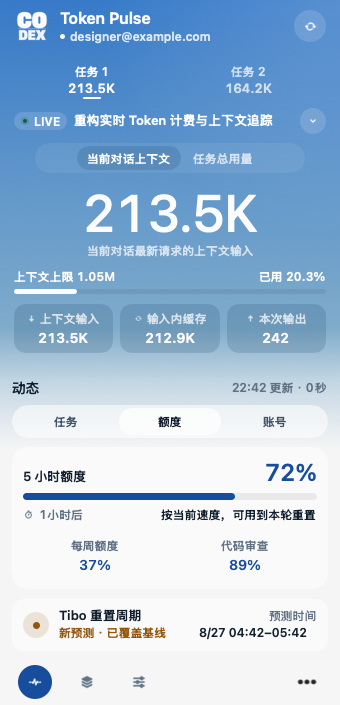
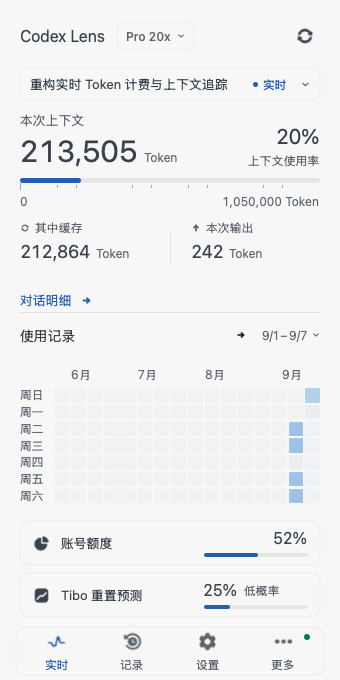
docs: refresh README and app screenshots

diff --git a/README.md b/README.md
@@ -1,15 +1,16 @@
 <p align="center">
-  <img src="Design/AppIconMaster.png" width="112" alt="Codex Lens">
+  <img src="docs/images/app-icon.png" width="96" alt="Codex Lens 图标">
 </p>
 
 <h1 align="center">Codex Lens</h1>
 
+<p align="center">Codex 用量统计 · macOS 菜单栏应用</p>
+
 <p align="center">
-  <a href="#下载">下载</a> ·
-  <a href="#数据">数据</a> ·
-  <a href="#账号">账号</a> ·
-  <a href="#开发">开发</a> ·
-  <a href="#文档">文档</a>
+  <a href="https://github.com/Lincb522/CodexLens/releases/download/v2.5.2/Codex-Lens-macOS.dmg"><strong>下载 macOS 版</strong></a> ·
+  <a href="CHANGELOG.md">更新日志</a> ·
+  <a href="#开始使用">开始使用</a> ·
+  <a href="#本地构建">本地构建</a>
 </p>
 
 <p align="center">
@@ -17,82 +18,80 @@
   <img alt="Swift 5.10" src="https://img.shields.io/badge/Swift-5.10-F05138?style=flat-square&amp;logo=swift&amp;logoColor=white">
   <img alt="SwiftUI + AppKit" src="https://img.shields.io/badge/UI-SwiftUI%20%2B%20AppKit-0A84FF?style=flat-square&amp;logo=apple&amp;logoColor=white">
   <img alt="XcodeGen" src="https://img.shields.io/badge/Build-XcodeGen-147EFB?style=flat-square&amp;logo=xcode&amp;logoColor=white">
-  <a href="LICENSE"><img alt="MIT License" src="https://img.shields.io/badge/License-MIT-16A34A?style=flat-square"></a>
-  <a href="https://github.com/Lincb522/CodexLens/releases/tag/v2.5.2"><img alt="Download v2.5.2" src="https://img.shields.io/badge/Download-v2.5.2-2563EB?style=flat-square&amp;logo=github&amp;logoColor=white"></a>
+  <a href="LICENSE"><img alt="MIT License" src="https://img.shields.io/badge/License-MIT-2563EB?style=flat-square"></a>
+  <a href="https://github.com/Lincb522/CodexLens/releases/tag/v2.5.2"><img alt="Release 2.5.2" src="https://img.shields.io/badge/Release-2.5.2-2563EB?style=flat-square&amp;logo=github&amp;logoColor=white"></a>
 </p>
 
 <p align="center">
-  <img src="docs/images/overview-light.png" width="330" alt="概览">
-  <img src="docs/images/token-details-light.png" width="330" alt="Token 明细">
+  <picture>
+    <source media="(prefers-color-scheme: dark)" srcset="docs/images/overview-dark.png">
+    <img src="docs/images/overview-light.png" width="340" alt="Codex Lens 首页：本次上下文、输入缓存、输出、每日热力图与账号额度">
+  </picture>
+  <picture>
+    <source media="(prefers-color-scheme: dark)" srcset="docs/images/usage-history-dark.png">
+    <img src="docs/images/usage-history-light.png" width="340" alt="Token 使用记录：全年热力图、单日用量与月度汇总">
+  </picture>
 </p>
 
-## 下载
+<p align="center"><sub>首页与使用记录 · 2.5.2 界面预览，使用示例数据。窗口毛玻璃以实机为准。</sub></p>
 
-[Codex-Lens-macOS.dmg](https://github.com/Lincb522/CodexLens/releases/download/v2.5.2/Codex-Lens-macOS.dmg) · [ZIP](https://github.com/Lincb522/CodexLens/releases/download/v2.5.2/Codex-Lens-macOS.zip) · [SHA256SUMS.txt](https://github.com/Lincb522/CodexLens/releases/download/v2.5.2/SHA256SUMS.txt)
+## 上下文、用量、额度
 
-macOS 14+ · x86_64 + arm64 · Developer ID 签名
-
-## 数据
-
-| 项目 | 来源或计算 |
-| --- | --- |
-| 活动任务 | `sessions` 中尚未完成的 rollout |
-| 任务标题 | Desktop 目录、rollout 元数据、工作目录 |
-| 当前请求 | 最新 `last_token_usage` |
-| 当前轮次 | 本轮 `total_token_usage` 的有效增量 |
-| 任务累计 | 最新 `total_token_usage` |
-| 本地历史 | `sessions` 与可选 `archived_sessions` 的最终累计值 |
-| 账号用量与额度 | Codex `app-server` |
-| 费用 | 完整 Token 明细 × 模型费率 |
-| 剩余时间 | 同一账号、同一额度窗口的历史样本 |
-| Tibo | 公开模型的 24 小时概率、确认记录与重置信号；不计入账号额度 |
-
-> [!NOTE]
-> 无法确认的字段显示“不可用”。不按字符数估算 Token，不用本地会话推算账号额度。计算规则见 [Token 计算](docs/calculation-spec.md)。
-
-## 账号
-
-| 项目 | 支持内容或结果 |
-| --- | --- |
-| 导入 | OAuth · Codex Home · Token / API Key · `auth.json` · JSON / JSONL · Sub2 · CPA / CLIProxyAPI · Cockpit |
-| 仅监控 | 不修改 Codex 当前登录 |
-| 登录到 Codex | 备份后替换默认 Codex Home 的登录 |
-
-## 开发
-
-| 依赖 | 版本或用途 |
-| --- | --- |
-| macOS | 14+ |
-| Xcode | 16+ |
-| [XcodeGen](https://github.com/yonaskolb/XcodeGen) | 生成 Xcode 工程 |
-| Codex CLI | 账号功能 |
+- **本次上下文**：最近一次请求的输入 Token，旁边显示上下文占用率、其中缓存和本次输出。首页主数不是任务累计。
+- **对话明细**：在本次请求、当前轮次和任务累计之间切换，分别查看输入、缓存、输出与 API 估算。
+- **每日记录**：一格一天，悬停查看日期和用量。首页可选本月、近 7 天、近 30 天或自选范围；点进记录查看全年热力图和月度汇总。
+- **账号额度**：首页显示剩余进度，详情列出额度周期、重置时间、积分和美元估算；模型专属额度单独展示。
+- **Tibo 动态**：重置预测、最近确认记录、推文与回复原文。它与账号自身的额度周期分开，预测不代表官方排期。
 
 <details>
-<summary><strong>构建</strong></summary>
+<summary><strong>查看对话明细</strong></summary>
+
+<p align="center">
+  <picture>
+    <source media="(prefers-color-scheme: dark)" srcset="docs/images/token-details-dark.png">
+    <img src="docs/images/token-details-light.png" width="340" alt="对话明细：请求、轮次和任务范围，输入、缓存、输出及 API 估算">
+  </picture>
+</p>
+
+</details>
+
+缓存已包含在输入中，不重复相加。Token 计数来自 Codex 记录和账号接口；费用与额度的美元值是估算，不是账单。完整口径见 [Token 计算](docs/calculation-spec.md)。
+
+## 开始使用
+
+1. 准备好已登录的 Codex CLI（终端中的 `codex` 命令）。
+2. 下载 [DMG 安装包](https://github.com/Lincb522/CodexLens/releases/download/v2.5.2/Codex-Lens-macOS.dmg)，将 **Codex Lens** 拖入「应用程序」并打开。
+3. 点击菜单栏图标查看。没有读到记录时，在「设置 → 数据」中选择 Codex Home。
+
+默认读取 `CODEX_HOME`，未设置时使用 `~/.codex`。多个账号可分别导入；“仅监控”不切换 Codex 登录，“登录到 Codex”会先备份原登录文件，再替换。
+
+设置中可以切换浅色 / 深色、开启开机自启，以及选择 Token **完整数字或 K / M / B / T 简写**。在「更多 → 关于 → 检查更新」查看 GitHub 发布的新版本与更新日志。
+
+**安装要求：** macOS 14 及以上，支持 Apple Silicon 和 Intel。当前发布包有 Developer ID 签名，尚未通过 Apple 公证。
+
+[ZIP 下载](https://github.com/Lincb522/CodexLens/releases/download/v2.5.2/Codex-Lens-macOS.zip) · [SHA-256 校验文件](https://github.com/Lincb522/CodexLens/releases/download/v2.5.2/SHA256SUMS.txt)
+
+<details>
+<summary>账号导入格式</summary>
+
+支持 Codex Home、`auth.json`、OAuth JSON、Token / API Key、JSON / JSONL，以及 CPA / CLIProxyAPI、Sub2、Cockpit 格式。
+
+</details>
+
+## 本地构建
+
+安装 Xcode 和 [XcodeGen](https://github.com/yonaskolb/XcodeGen)。CI 使用 Xcode 26.3；`project.yml` 是工程定义，`.xcodeproj` 由脚本生成。
 
 ```bash
 git clone https://github.com/Lincb522/CodexLens.git
 cd CodexLens
-xcodegen generate
 ./scripts/build_app.sh
 ```
 
-```text
-build/DerivedData/Build/Products/Release/Codex Lens.app
-```
-
-```bash
-export CODESIGN_IDENTITY='Developer ID Application: …'
-./scripts/package_release.sh
-./scripts/package_dmg.sh
-```
-
-`package_release.sh` 只接受 Developer ID Application 身份。`package_dmg.sh` 生成包含“应用程序”快捷入口的 DMG。GitHub Release 工作流负责签名与打包；手动运行时可选择提交 Apple 公证。
-
-</details>
+构建产物：`build/DerivedData/Build/Products/Release/Codex Lens.app`。本地构建脚本不签名；签名与打包见 [开发与发布](docs/development.md)。
 
 <details>
-<summary><strong>测试</strong></summary>
+<summary><strong>运行测试</strong></summary>
 
 ```bash
 xcodegen generate
@@ -105,20 +104,10 @@ xcodebuild test \
 
 </details>
 
-## 文档
+## 文档与项目
 
-| 产品 | 工程 |
-| --- | --- |
-| [产品约束](PRODUCT.md) | [系统结构](docs/architecture.md) |
-| [界面规范](DESIGN.md) | [Token 计算](docs/calculation-spec.md) |
-| [版本记录](CHANGELOG.md) | [开发与发布](docs/development.md) |
-| [安全说明](SECURITY.md) | [验证记录](VERIFICATION.md) |
+[全部文档](docs/README.md) · [Token 计算](docs/calculation-spec.md) · [系统结构](docs/architecture.md) · [界面规范](DESIGN.md) · [验证记录](VERIFICATION.md)
 
-[全部文档](docs/README.md)
+[参与开发](CONTRIBUTING.md) · [报告问题](https://github.com/Lincb522/CodexLens/issues) · [安全说明](SECURITY.md)
 
-## 项目
-
-| 项目 | 内容 |
-| --- | --- |
-| 开发者 | Zijiu522 |
-| 许可 | [MIT](LICENSE) · [第三方许可](THIRD_PARTY_NOTICES.md) |
+作者：**Zijiu522**。采用 [MIT License](LICENSE)，第三方组件见 [许可清单](THIRD_PARTY_NOTICES.md)。
